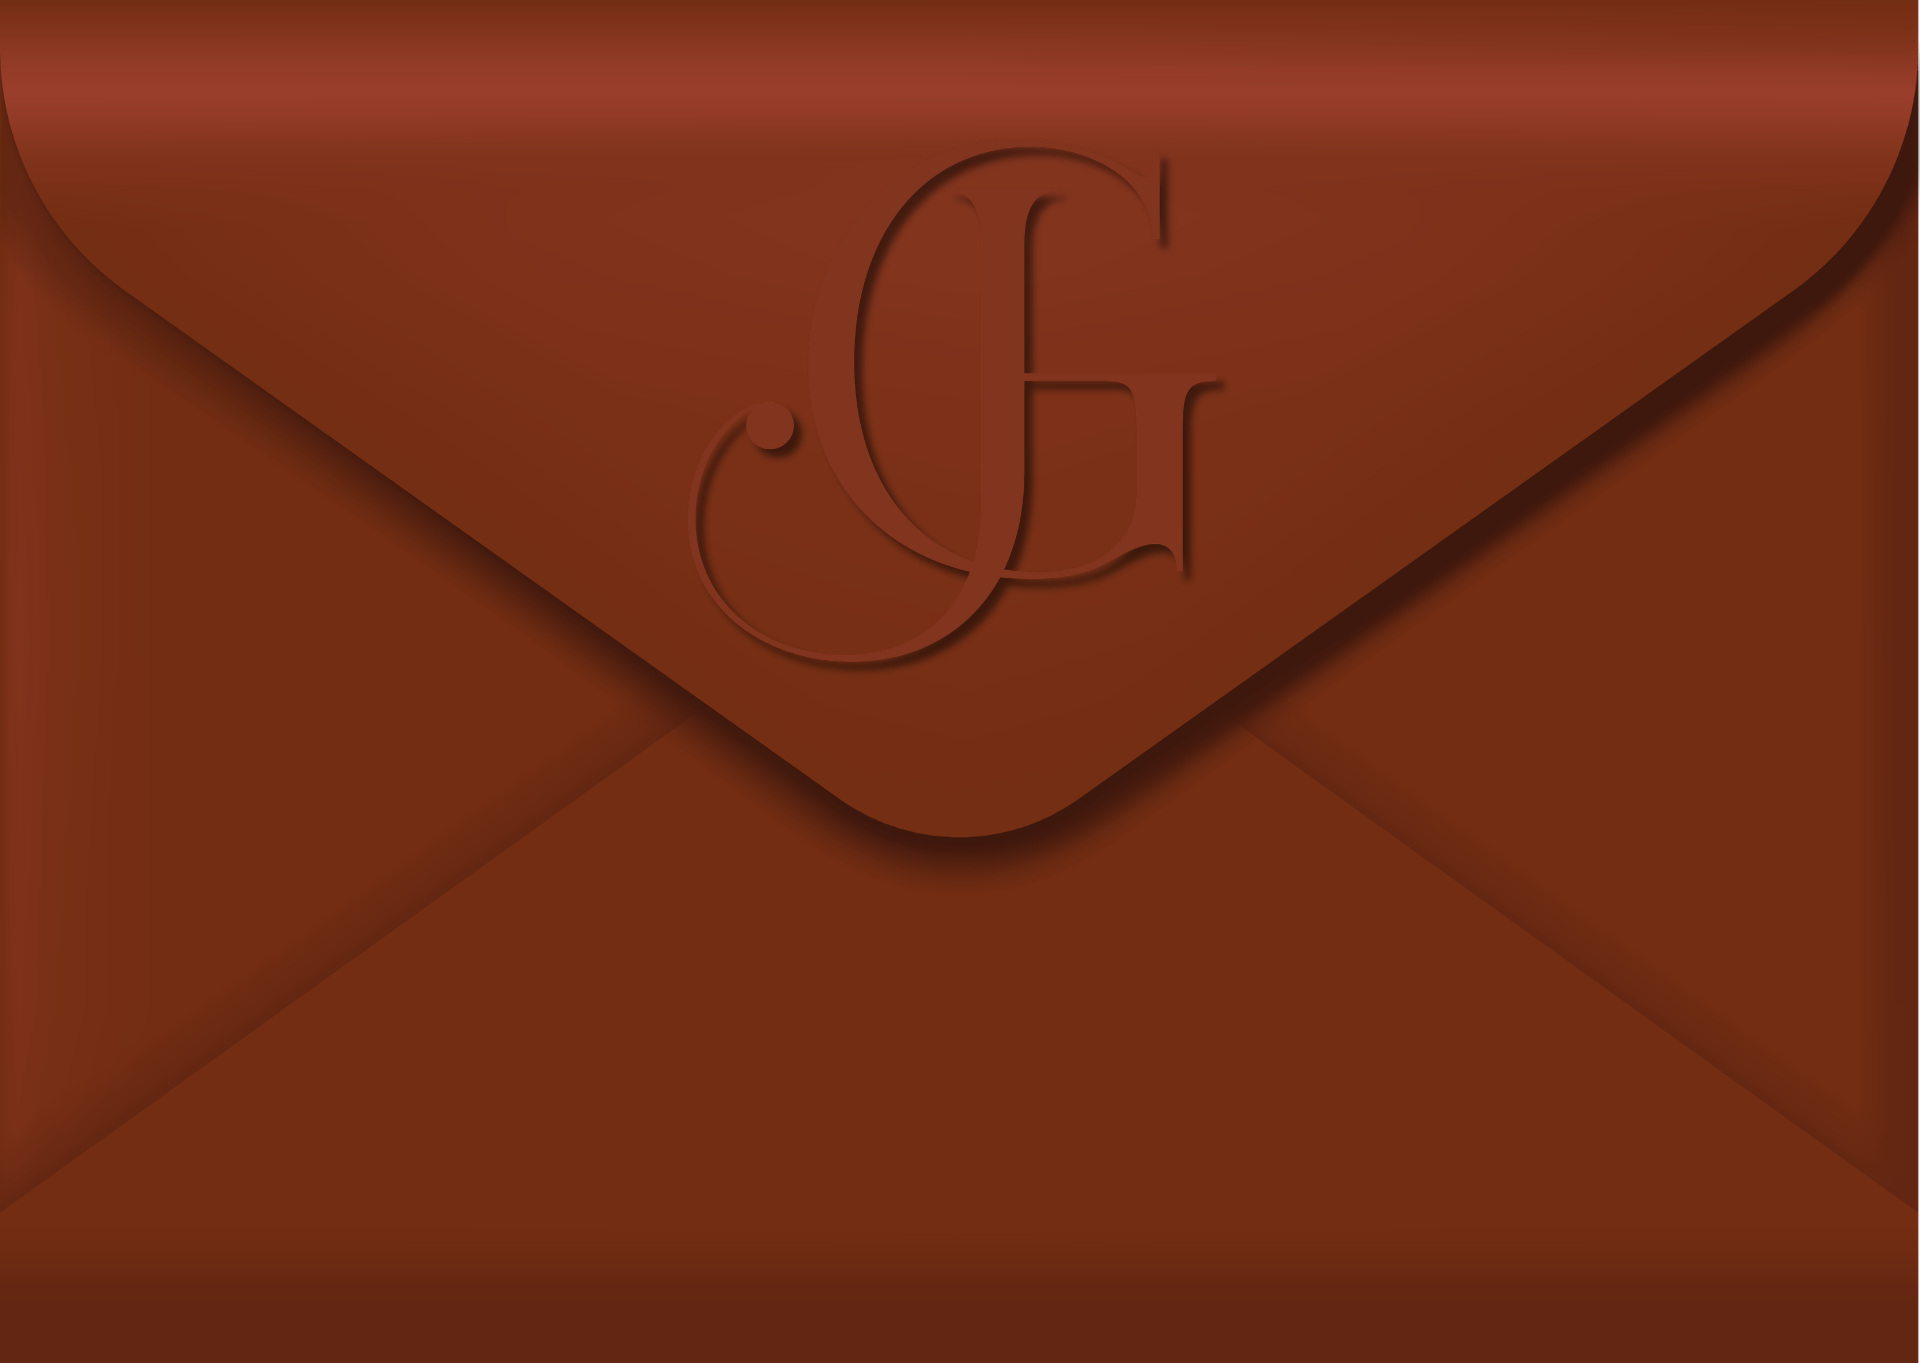
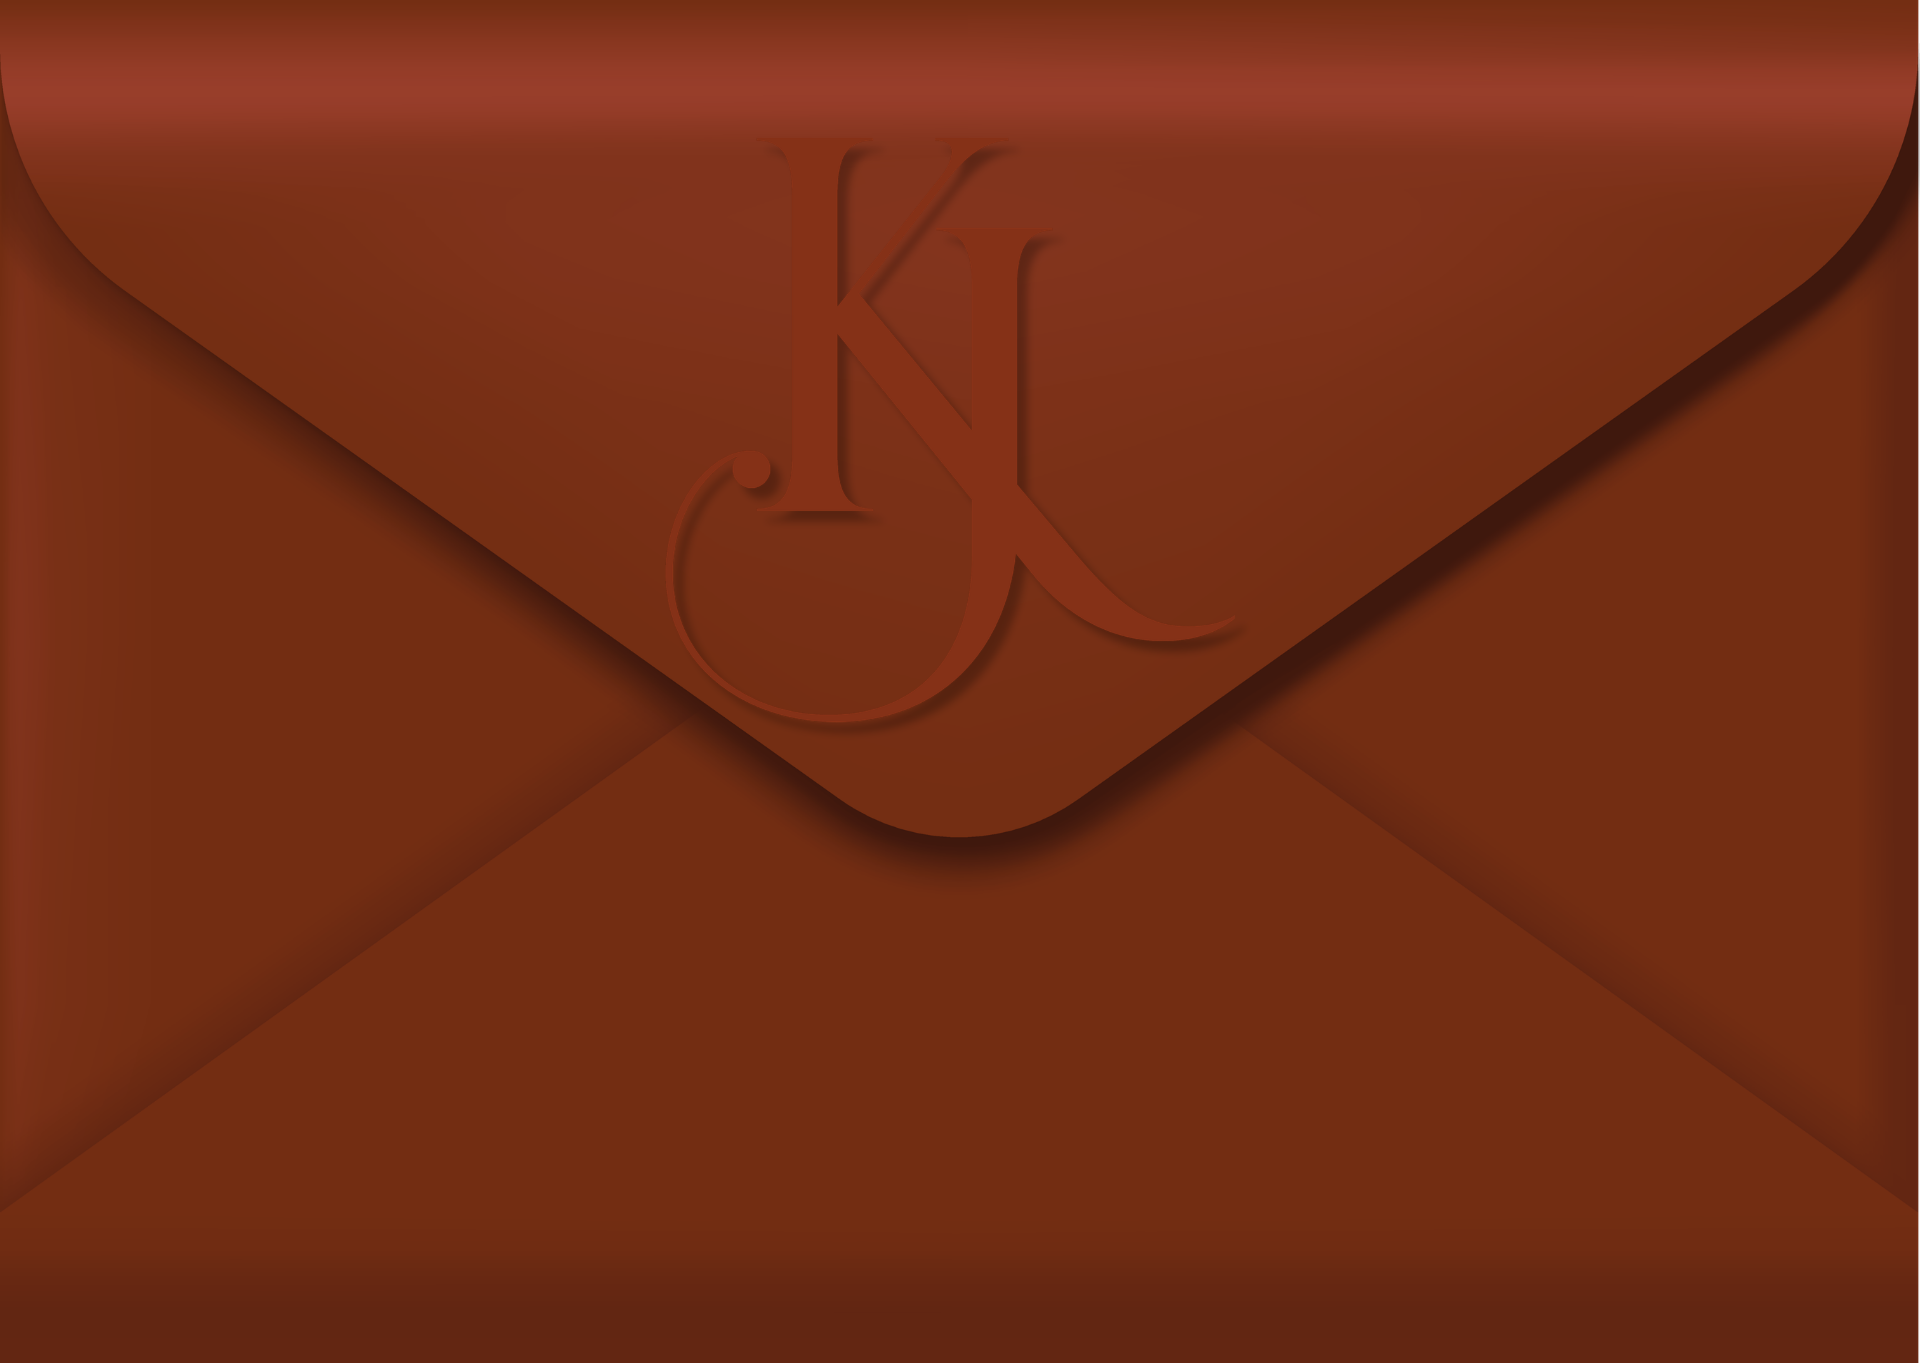
cambios

diff --git a/style.css b/style.css
@@ -40,7 +40,7 @@
     padding:0;
     position:relative;
     overflow:hidden;
-    background:url("Images/TEXTURAS/textura-2.png") center/cover fixed no-repeat;
+    background:url("Images/FONDO.png") center/cover fixed no-repeat;
   }
   
   .cover-inner{max-width:520px;width:100%;display:grid;justify-items:center;gap:20px}
@@ -160,7 +160,7 @@ a{
   
   .invitation{
     display:none;
-    background:url("Images/TEXTURAS/textura-2.png") center/cover fixed no-repeat;
+    background:url("Images/FONDO.png") center/cover fixed no-repeat;
   }
   .invitation.is-open{display:block}
   .invitation section:not(.full-sep):not(.full-sep-rotating),
@@ -186,7 +186,7 @@ a{
     align-items:center;
     justify-content:center;
     overflow:visible;
-    background:url("Images/TEXTURAS/textura-2.png") center/cover no-repeat;
+    background:transparent;
   }
   .hero-overlay{
     position:relative;
@@ -196,6 +196,22 @@ a{
     justify-content:center;
     padding:20px 20px 24px;
   }
+  .hero-couple-name{
+    margin:0;
+    padding:10px;
+    display:flex;
+    justify-content:center;
+    gap:.18em;
+    font-family:"Luxurious Script", cursive;
+    font-size:clamp(52px, 12vw, 90px);
+    font-weight:400;
+    line-height:.8;
+    color:transparent;
+    background:linear-gradient(105deg, #665843 0%, #98815d 18%, #d5c19b 35%, #ad976f 50%, #e1d0aa 64%, #927955 82%, #5f503d 100%);
+    -webkit-background-clip:text;
+    background-clip:text;
+  }
+  .hero-couple-amp{line-height:.8}
   .hero-composition{
     width:min(100%, 560px);
     display:flex;
@@ -213,6 +229,16 @@ a{
     width:100%;
     height:auto;
   }
+  .hero-seal-image{
+    position:absolute;
+    left:50%;
+    top:71%;
+    width:20%;
+    height:auto;
+    transform:translate(-50%, -50%);
+    z-index:2;
+    pointer-events:none;
+  }
   .hero-flower-image{
     position:absolute;
     right:-11%;
@@ -221,32 +247,6 @@ a{
     max-width:190px;
     height:auto;
     z-index:2;
-  }
-  .hero-couple-name{
-    margin:0;
-    padding:10px;
-    display:flex;
-    flex-direction:row;
-    flex-wrap:nowrap;
-    align-items:center;
-    justify-content:center;
-    gap:.18em;
-    font-family:var(--cursive);
-    font-size:clamp(82px, 14vw, 144px);
-    font-style:normal;
-    font-weight:500;
-    line-height:1;
-    white-space:nowrap;
-    background:var(--gold-text);
-    background-size:220% auto;
-    -webkit-background-clip:text;
-    -webkit-text-fill-color:transparent;
-    background-clip:text;
-    animation:goldShimmer 5s ease-in-out infinite;
-  }
-  .hero-couple-amp{
-    line-height:0.9;
-    transform:translateY(-.02em);
   }
   .music-bubble{
     position:fixed;
@@ -326,7 +326,7 @@ a{
   .names-editorial{
     padding:30px 18px 34px;
     text-align:center;
-    background:url("Images/TEXTURAS/textura-2.png") center/cover no-repeat;
+    background:url("Images/FONDO.png") center/cover no-repeat;
   }
   .marriage-note{
     position:relative;
@@ -338,7 +338,7 @@ a{
   }
   .marriage-note-inner{
     position:relative;
-    background:url("Images/textura-2.png") center/cover no-repeat;
+    background:url("Images/TEXTURAS/P1.png") center/cover no-repeat;
     margin:0;
     padding:40px 18px 36px;
   }
@@ -472,7 +472,7 @@ a{
   }
   .ceremony-note-inner{
     width:min(100%, 235px);
-    background:url("Images/textura-2.png") center/cover no-repeat;
+    background:url("Images/TEXTURAS/textura-2.png") center/cover no-repeat;
     padding:28px 18px;
     box-shadow:0 18px 34px rgba(28,39,66,.18);
     display:flex;
@@ -560,14 +560,16 @@ a{
     letter-spacing:.06em;
   }
   .countdown .btn-outline,
-  .countdown a.btn-outline{
+  .countdown a.btn-outline,
+  #giftLink{
     background:transparent;
     border-color:#81341e;
     color:#81341e;
     box-shadow:0 8px 18px rgba(129,52,30,.12);
   }
   .countdown .btn-outline:hover,
-  .countdown a.btn-outline:hover{
+  .countdown a.btn-outline:hover,
+  #giftLink:hover{
     background:rgba(129,52,30,.08);
     border-color:#81341e;
     color:#81341e;
@@ -598,7 +600,7 @@ a{
     width:min(100%, 220px);
     min-height:360px;
     border-radius:999px;
-    background:url("Images/textura-2.png") center/cover no-repeat;
+    background:url("Images/TEXTURAS/textura-2.png") center/cover no-repeat;
     padding:40px 18px 30px;
     box-shadow:0 18px 34px rgba(28,39,66,.18);
     display:flex;
@@ -677,7 +679,7 @@ a{
     position:relative;
     margin-top:-110px;
     width:min(100%, 285px);
-    background:url("Images/textura-2.png") center/cover no-repeat;
+    background:url("Images/TEXTURAS/P1.png") center/cover no-repeat;
     padding:18px 16px 16px;
     border:4px solid #81341e;
     box-shadow:0 18px 34px rgba(28,39,66,.18);
@@ -990,17 +992,22 @@ a{
     color: var(--olive-dark);
   }
   .date-highlight{
-    padding: 10px 18px 24px;
+    display:flex;
+    flex-direction:column;
+    align-items:center;
+    justify-content:center;
+    padding:10px 18px 24px;
     text-align: center;
+    background:none !important;
   }
   .date-highlight-label,
   .date-highlight-value{
     margin: 0;
   }
   .date-highlight-label{
-    padding:10px;
+    padding:0 10px;
     font-family: var(--cursive);
-    font-size: 38px;
+    font-size:clamp(28px, 7vw, 52px);
     line-height: 1;
     background: var(--rose-gold-text);
     -webkit-background-clip: text;
@@ -1010,7 +1017,7 @@ a{
   .date-highlight-value{
     margin-top: 6px;
     font-family: var(--title);
-    font-size: 19px;
+    font-size:clamp(14px, 3.5vw, 24px);
     letter-spacing: 0.24em;
     text-transform: uppercase;
     color: #81341e;
@@ -1563,17 +1570,17 @@ a{
       font-size:12px;
     }
     .reception-oval-wrap{
-      justify-content:center;
-      align-self:center;
-      justify-self:center;
+      justify-content:flex-end;
+      align-self:flex-end;
+      justify-self:flex-end;
       margin-top:-55px;
       padding:18px 0 0;
     }
     .reception-cala{
-      left:40px;
+      left:157px;
       bottom:210px;
-      top:-180px;
-      width:130px;
+      top:-200px;
+      width:180px;
     }
     .reception-oval{
       width:min(100%, 200px);
@@ -2190,7 +2197,7 @@ section.is-visible .btn-outline:nth-of-type(2) {
   padding-top:18px;
 }
 .wish-card{
-  background:url("Images/textura-2.png") center/cover no-repeat;
+  background:url("Images/FONDO.png") center/cover no-repeat;
   border:2px solid #81341e;
   border-radius:18px;
   padding:12px 14px 11px;

diff --git a/index.html b/index.html
@@ -9,13 +9,13 @@
   <meta property="og:locale" content="es_GT">
   <meta id="metaOgTitle" property="og:title" content="Karina &amp; Josimar | 29.11.2026">
   <meta id="metaOgDescription" property="og:description" content="Te invitamos a celebrar la boda de Karina Ramos y Josimar Arango el 29 de noviembre de 2026.">
-  <meta id="metaOgImage" property="og:image" content="https://i.ibb.co/FFLwB4G/MTERRACOTA.png">
+  <meta id="metaOgImage" property="og:image" content="https://images.pexels.com/photos/39996473/pexels-photo-39996473.jpeg">
   <meta id="metaKeywords" name="keywords" content="invitacion de boda, Karina, Josimar, boda, La Esperanza, Quetzaltenango">
   <meta id="metaAuthor" name="author" content="Two Design | Invitaciones Digitales">
   <meta name="twitter:card" content="summary_large_image">
   <meta name="twitter:title" content="Karina &amp; Josimar | 29.11.2026">
   <meta name="twitter:description" content="Te invitamos a celebrar la boda de Karina Ramos y Josimar Arango el 29 de noviembre de 2026.">
-  <meta name="twitter:image" content="https://i.ibb.co/FFLwB4G/MTERRACOTA.png">
+  <meta name="twitter:image" content="https://images.pexels.com/photos/39996473/pexels-photo-39996473.jpeg">
   <link rel="stylesheet" href="style.css">
   <!-- (Opcional) Fonts -->
   <link rel="preconnect" href="https://fonts.googleapis.com">
@@ -67,19 +67,20 @@
       <div class="hero-composition fade-in-element">
         <div class="hero-artwork">
           <img id="heroMainImage" src="Images/E2.png" alt="Gaby y José" class="hero-main-image">
+          <img src="Images/TEXTURAS/SELLO.png" alt="Sello decorativo" class="hero-seal-image">
           <img src="Images/CALA1.png" alt="Cala decorativa" class="hero-flower-image">
         </div>
 
-        <h2 class="hero-couple-name">
-          <span id="heroBrideName">Gaby</span>
-          <span class="hero-couple-amp">&amp;</span>
-          <span id="heroGroomName">José</span>
-        </h2>
       </div>
     </div>
   </section>
 
   <!-- NOMBRES EDITORIAL + FECHA VERTICAL + MÚSICA -->
+  <h2 class="hero-couple-name">
+    <span id="heroBrideName">Karina</span>
+    <span class="hero-couple-amp">&amp;</span>
+    <span id="heroGroomName">Josimar</span>
+  </h2>
   <section class="names-editorial fade-in-element" id="names">
     <div class="marriage-note">
       <img src="Images/PERLA.png" alt="Perla decorativa" class="note-pearl">
@@ -106,11 +107,11 @@
 
   <section class="date-highlight fade-in-element" id="dateHighlight">
     <p class="date-highlight-label" id="dateHighlightLabel">Nuestro gran día</p>
-    <p class="date-highlight-value" id="dateHighlightValue">14 . 11 . 2026</p>
+    <p class="date-highlight-value" id="dateHighlightValue">29 . 11 . 2026</p>
   </section>
 
   <section class="full-sep full-sep-rotating" id="storySep">
-    <img id="storySepImg" src="Images/S1.png" alt="Galería de la pareja">
+    <img id="storySepImg" src="Images/FOTOS/V1.png" alt="Galería de la pareja">
   </section>
 
   <!-- CONTADOR -->
@@ -141,7 +142,7 @@
     <div class="countdown-events">
       <article class="ceremony-note">
         <div class="ceremony-note-inner">
-          <img src="Images/ICONO-1.png" alt="Ceremonia" class="event-note-icon">
+          <img src="Images/ICONOS/ICONO-1.png" alt="Ceremonia" class="event-note-icon">
           <h4 id="ceremonyTitle">Ceremonia</h4>
           <p class="event-note-place" id="ceremonyPlace">San Francisco el Grande</p>
           <p class="event-note-time" id="ceremonyTime">4:00 pm</p>
@@ -153,7 +154,7 @@
       <article class="reception-oval-wrap">
         <img src="Images/CALA2.png" alt="Cala decorativa" class="reception-cala">
         <div class="reception-oval">
-          <img src="Images/ICONO-3.png" alt="Recepción" class="event-note-icon">
+          <img src="Images/ICONOS/ICONO-3.png" alt="Recepción" class="event-note-icon">
           <h4 id="receptionTitle">Recepción</h4>
           <p class="event-note-place" id="receptionPlace">Conceptio</p>
           <p class="event-note-time" id="receptionTime">6:00 pm</p>
@@ -197,7 +198,7 @@
   </section>
 
   <section class="full-sep full-sep-rotating" id="celebrationSep">
-    <img id="celebrationSepImg" src="Images/C1.png" alt="Galería de celebración">
+    <img id="celebrationSepImg" src="Images/FOTOS/V2.png" alt="Galería de celebración">
   </section>
 
 <!-- ================= MODAL TRANSFERENCIA ================= -->
@@ -296,7 +297,7 @@
 
   <!-- FOTO CAMBIANTE -->
   <section class="full-sep full-sep-rotating" id="rotatingSep">
-    <img id="rotatingSepImg" src="Images/F1.png" alt="Foto pareja">
+    <img id="rotatingSepImg" src="Images/FOTOS/V4.png" alt="Foto pareja">
   </section>
 
   <!-- CIERRE -->

diff --git a/script.js b/script.js
@@ -149,8 +149,6 @@ function renderInvitationContent() {
   setText("#brideParentsNames", ceremonia.padresNovia);
   setText("#groomParentsTitle", ceremonia.padresNovioTitulo);
   setText("#groomParentsNames", ceremonia.padresNovio);
-  setText("#dateHighlightLabel", cfg.textos?.fechaLabel || "Nuestro gran día");
-  setText("#dateHighlightValue", pareja.fechaDestacada || pareja.fechaVisible || "00 . 00 . 0000");
   setLink("#calendarBtn", buildCalendarUrl());
   setText("#ceremonyTitle", evento.ceremonia?.titulo);
   setText("#ceremonyPlace", evento.ceremonia?.lugar);
@@ -186,9 +184,9 @@ function renderInvitationContent() {
   setLink("#footerFacebook", cfg.footer?.facebookUrl);
   setLink("#footerInstagram", cfg.footer?.instagramUrl);
   setImage("#heroMainImage", galeria.portadaPrincipal || "Images/E2.png", pareja.nombres || "Invitación");
-  setImage("#storySepImg", galeria.historia?.[0] || "Images/S1.png", "Galería de la pareja");
-  setImage("#celebrationSepImg", galeria.celebracion?.[0] || "Images/C1.png", "Galería de celebración");
-  setImage("#rotatingSepImg", galeria.pareja?.[0] || "Images/F1.png", "Foto pareja");
+  setImage("#storySepImg", galeria.historia?.[0] || "Images/FOTOS/V1.png", "Galería de la pareja");
+  setImage("#celebrationSepImg", galeria.celebracion?.[0] || "Images/FOTOS/V2.png", "Galería de celebración");
+  setImage("#rotatingSepImg", galeria.pareja?.[0] || "Images/FOTOS/V4.png", "Foto pareja");
 
   const adultsSection = $$("#adultsOnlySection");
   if (adultsSection && adultos.mostrar === false) {
@@ -247,9 +245,9 @@ document.addEventListener("DOMContentLoaded", () => {
   initCountdown(countdownDate.year, countdownDate.month, countdownDate.day, countdownDate.hours, countdownDate.minutes, countdownDate.seconds);
 
   // 6) Separadores rotativos
-  initRotatingSep("rotatingSepImg", getInvitationConfig()?.galeria?.pareja || ["Images/F1.png", "Images/F2.png"]);
-  initRotatingSep("celebrationSepImg", getInvitationConfig()?.galeria?.celebracion || ["Images/C1.png", "Images/C2.png"]);
-  initRotatingSep("storySepImg", getInvitationConfig()?.galeria?.historia || ["Images/S1.png", "Images/S2.png"]);
+  initRotatingSep("rotatingSepImg", getInvitationConfig()?.galeria?.pareja || ["Images/FOTOS/V4.png", "Images/FOTOS/H1.png", "Images/FOTOS/H2.png"]);
+  initRotatingSep("celebrationSepImg", getInvitationConfig()?.galeria?.celebracion || ["Images/FOTOS/V2.png"]);
+  initRotatingSep("storySepImg", getInvitationConfig()?.galeria?.historia || ["Images/FOTOS/V1.png"]);
 });
 
 /* ===================== INVITADO EN PORTADA ===================== */

diff --git a/config.js b/config.js
@@ -76,8 +76,8 @@ const config = {
   itinerario: {
     titulo: "Itinerario",
     items: [
-      { icono: "Images/ICONO-1.png", alt: "Ceremonia", hora: "10:00 AM", texto: "Ceremonia" },
-      { icono: "Images/ICONO-3.png", alt: "Recepción", hora: "11:00 AM", texto: "Recepción" }
+      { icono: "Images/ICONOS/ICONO-1.png", alt: "Ceremonia", hora: "10:00 AM", texto: "Ceremonia" },
+      { icono: "Images/ICONOS/ICONO-3.png", alt: "Recepción", hora: "11:00 AM", texto: "Recepción" }
     ]
   },
   dressCode: {
@@ -121,9 +121,9 @@ const config = {
   },
   galeria: {
     portadaPrincipal: "Images/E2.png",
-    historia: ["Images/S1.png", "Images/S2.png"],
-    celebracion: ["Images/C1.png", "Images/C2.png"],
-    pareja: ["Images/F1.png", "Images/F2.png"]
+    historia: ["Images/FOTOS/V1.png"],
+    celebracion: ["Images/FOTOS/V2.png"],
+    pareja: ["Images/FOTOS/V4.png", "Images/FOTOS/H1.png", "Images/FOTOS/H2.png"]
   },
   footer: {
     hashtag: "#KarinaYJosimar",
